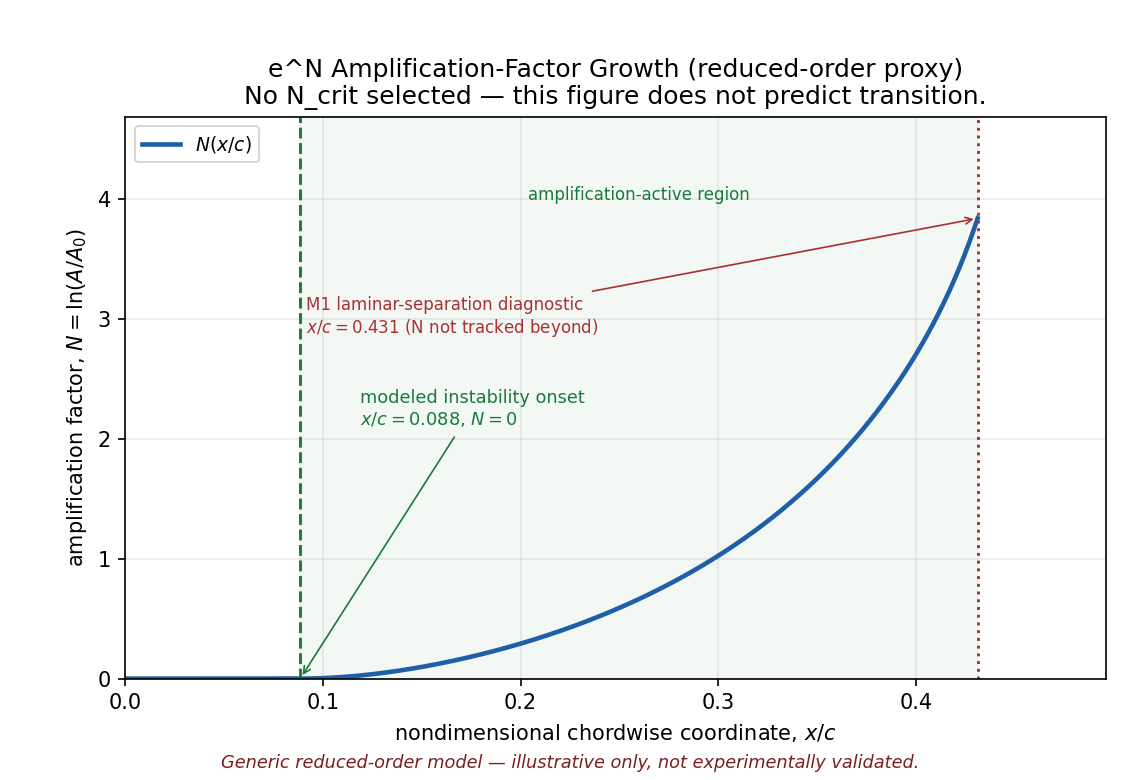
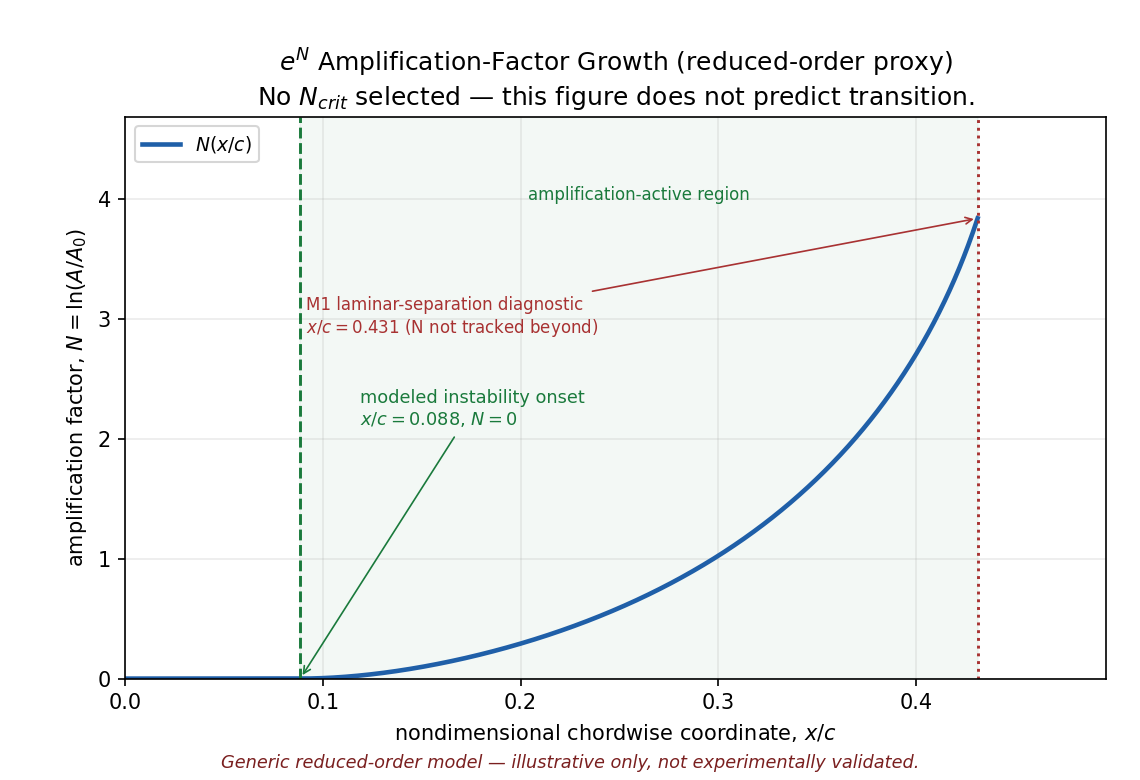
Final presentation cleanup for boundary-layer portfolio figures
Presentation-only fixes to raw code-style math notation across six
figures, matching the mathtext style already used elsewhere in the
project. No physics, data, parameter values, classifications, or
conclusions changed.

- final_model_sensitivity_ranking.png: y-axis labels M5 K_sep,
  M5 H_reattach, M5 K_theta now render as proper mathtext
  ($K_{sep}$, $H_{reattach}$, $K_{\theta}$). Ranking, percentages,
  ordering, and bar lengths unchanged.
- final_transition_mechanism_map.png: legend/category labels
  containing raw "e^N" now render as $e^N$. Marker positions, colors,
  and classifications unchanged (internal keys renamed consistently
  with their display labels).
- n_factor_growth.png: title and subtitle now render $e^N$ and
  $N_{crit}$ as mathtext instead of raw text. Curve, onset/separation
  locations, and N values unchanged.
- n_factor_reynolds_sensitivity.png: subtitle now renders $N_{crit}$
  as mathtext (shared NCRIT_CAVEAT constant). Curves and values
  unchanged.
- transition_reynolds_map.png: legend text now renders
  "separation before $N_{crit}$" and "$N_{crit}$ crossing" as
  mathtext. Event classifications and annotations unchanged.
- ncrit_transition_sensitivity.png: the "no crossing" annotation box
  now renders $N_{crit}$ as mathtext. Sourced values (9/12/14) and
  the physical conclusion unchanged.

final_boundary_layer_summary.png and m5_model_sensitivity.png were
inspected against the same criteria and found already correct
[…]

Changed region(s): [[0.2149, 0.0615, 0.8596, 0.1538]]

diff --git a/scripts/generate_m6_figures.py b/scripts/generate_m6_figures.py
@@ -160,8 +160,8 @@ def plot_transition_mechanism_map() -> None:
     def classify(r) -> str:
         if r.mechanism == "ATTACHED_E_N_CROSSING":
             if r.turbulent_status == "COMPLETED_TO_TE":
-                return "attached e^N crossing, reaches TE"
-            return "attached e^N crossing, later turb. sep."
+                return r"attached $e^N$ crossing, reaches TE"
+            return r"attached $e^N$ crossing, later turb. sep."
         if r.bubble_status == "OPEN_SEPARATION":
             return "open separation"
         if r.bubble_status == "TURBULENT_REATTACHMENT":
@@ -171,24 +171,24 @@ def plot_transition_mechanism_map() -> None:
         return "no event"
 
     categories = [
-        "attached e^N crossing, reaches TE",
-        "attached e^N crossing, later turb. sep.",
+        r"attached $e^N$ crossing, reaches TE",
+        r"attached $e^N$ crossing, later turb. sep.",
         "reattached bubble, reaches TE",
         "reattached bubble, later turb. sep.",
         "open separation",
         "no event",
     ]
     colors = {
-        "attached e^N crossing, reaches TE": "#1a7a3c",
-        "attached e^N crossing, later turb. sep.": "#7fbf7f",
+        r"attached $e^N$ crossing, reaches TE": "#1a7a3c",
+        r"attached $e^N$ crossing, later turb. sep.": "#7fbf7f",
         "reattached bubble, reaches TE": "#1f5fa8",
         "reattached bubble, later turb. sep.": "#7fa8d8",
         "open separation": "#a83232",
         "no event": "0.6",
     }
     markers = {
-        "attached e^N crossing, reaches TE": "D",
-        "attached e^N crossing, later turb. sep.": "d",
+        r"attached $e^N$ crossing, reaches TE": "D",
+        r"attached $e^N$ crossing, later turb. sep.": "d",
         "reattached bubble, reaches TE": "o",
         "reattached bubble, later turb. sep.": "o",
         "open separation": "X",
@@ -422,15 +422,15 @@ def plot_model_sensitivity_ranking(op) -> None:
             abs(100 * (cd_total_bubble(BubbleParameters("x", 0.008, dxr, 5.0, 1.7)) - base_cd) / base_cd)
             for dxr in (0.007, 0.065)
         ),
-        "M5 K_theta": max(
+        r"M5 $K_{\theta}$": max(
             abs(100 * (cd_total_bubble(BubbleParameters("x", 0.008, 0.022, k, 1.7)) - base_cd) / base_cd)
             for k in (2.0, 12.0)
         ),
-        "M5 H_reattach": max(
+        r"M5 $H_{reattach}$": max(
             abs(100 * (cd_total_bubble(BubbleParameters("x", 0.008, 0.022, 5.0, h)) - base_cd) / base_cd)
             for h in (1.4, 2.3)
         ),
-        "M5 K_sep": max(
+        r"M5 $K_{sep}$": max(
             abs(100 * (cd_total_bubble(NOMINAL_BUBBLE, k_sep=k) - base_cd) / base_cd)
             for k in (0.0, 2.0)
         ),

diff --git a/scripts/generate_m3_figures.py b/scripts/generate_m3_figures.py
@@ -110,7 +110,7 @@ def plot_ncrit_transition_sensitivity(op, asol) -> None:
 
     if not any_crossing:
         ax.text(
-            0.97, 0.30, "Baseline separates before\nselected N_crit values.",
+            0.97, 0.30, r"Baseline separates before" "\n" r"selected $N_{crit}$ values.",
             transform=ax.transAxes, ha="right", va="center", fontsize=10.5, color=SEP_COLOR,
             bbox=dict(boxstyle="round", fc="#fdecea", ec=SEP_COLOR, lw=1.0),
         )
@@ -140,8 +140,8 @@ def plot_transition_reynolds_map() -> None:
     fig, ax = plt.subplots(figsize=(7.8, 5.0))
 
     marker_for_status = {
-        TransitionStatus.N_CRIT_CROSSING: ("o", "#1a7a3c", "N_crit crossing"),
-        TransitionStatus.SEPARATION_BEFORE_N_CRIT: ("x", SEP_COLOR, "separation before N_crit"),
+        TransitionStatus.N_CRIT_CROSSING: ("o", "#1a7a3c", r"$N_{crit}$ crossing"),
+        TransitionStatus.SEPARATION_BEFORE_N_CRIT: ("x", SEP_COLOR, r"separation before $N_{crit}$"),
         TransitionStatus.NO_EVENT_IN_DOMAIN: ("s", "0.5", "no event in domain"),
     }
     seen_labels = set()

diff --git a/scripts/generate_m2_figures.py b/scripts/generate_m2_figures.py
@@ -36,7 +36,7 @@ FIGURES_DIR = Path(__file__).resolve().parent.parent / "figures"
 DPI = 150
 
 CAVEAT = "Generic reduced-order model — illustrative only, not experimentally validated."
-NCRIT_CAVEAT = "No N_crit selected — this figure does not predict transition."
+NCRIT_CAVEAT = r"No $N_{crit}$ selected — this figure does not predict transition."
 
 ONSET_COLOR = "#1a7a3c"
 SEP_COLOR = "#a83232"
@@ -147,7 +147,7 @@ def plot_n_factor_growth(op, asol) -> None:
     ax.set_xlabel(r"nondimensional chordwise coordinate, $x/c$")
     ax.set_ylabel(r"amplification factor, $N = \ln(A/A_0)$")
     ax.set_title(
-        "e^N Amplification-Factor Growth (reduced-order proxy)\n" + NCRIT_CAVEAT
+        r"$e^N$ Amplification-Factor Growth (reduced-order proxy)" "\n" + NCRIT_CAVEAT
     )
     ax.set_xlim(0.0, min(1.0, asol.s_sep * 1.15))
     ax.set_ylim(0.0, asol.n_max * 1.22)
